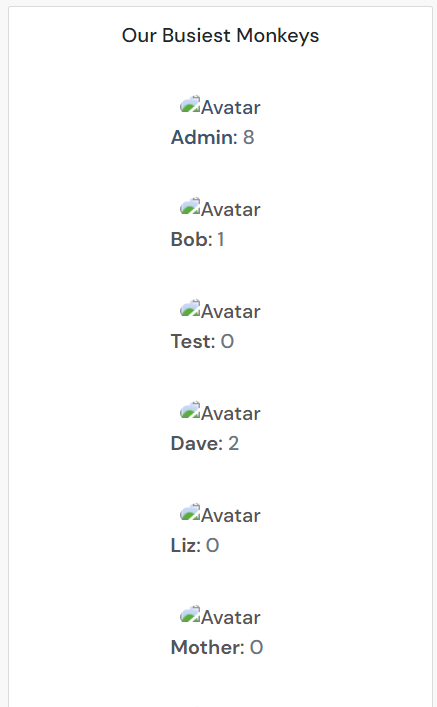
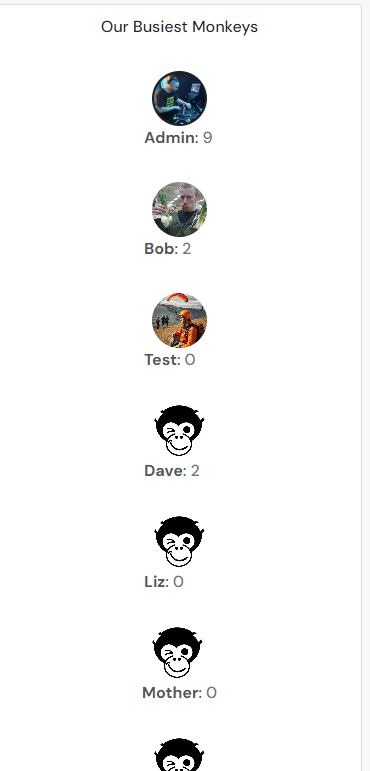
update images in documentation and update readme

diff --git a/README.md b/README.md
@@ -220,13 +220,6 @@ Key functionality Goals
 
 ## Design
 
-### Colours
-
-The colours used in the design were taken from [Color Palettes](https://colorpalettes.net/color-palette-4233/)
-
-![Color Palettes](documentation/assets/colorpalettes.png)
-
-
 ### Fonts
 
 The font chosen was [DM Sans](https://fonts.google.com/specimen/DM+Sans) from googlefonts
@@ -368,7 +361,6 @@ NavBar Mobile Expanded
 - This shows a list of the users that have added the highest amount of tasks when logged in, and the site logo when logged out
 
 ![Home Logged in](documentation/assets/homeloggedin.png)
-![Home Logged Out](documentation/assets/homeloggedout.png)
 
 
 
@@ -412,28 +404,31 @@ NavBar Mobile Expanded
 
 ![Change Password Page](documentation/assets/changepassword.png)
 
-### Unresolved Bugs
- - Edit profile - I encountered and issue when trying to edit the profile bio where the console showed an error regarding an unmounted component. I tried extensively to find a resolution, but even with help from tutor support, this was unable to be resolved before my submission deadline
-  ![Edit Profile Bug](documentation/assets/editprofilerrorfull_unresolved.png)
- - Avatar images not displaying - the avatar images are not displaying in the 'Active Profiles' section. Again, I was unable to find time to get this resolved in this iteration
- - Filters - I have been unable to get the pages to display the correct filtered information. I wanted a separate list of tasks to be displayed based on the status (not started, in progress, completed, on hold), but with my knowledge limited to what had been shown in the moments walkthrough, i was unable to translate that into a functioning solution in my app
+### Unresolved Bugs 
+
  - Logo image overlap on homepage on mobile devices
+
+### Fixed Bugs
+- Edit profile - I encountered and issue when trying to edit the profile bio where the console showed an error regarding an unmounted component. 
+  ![Edit Profile Bug](documentation/assets/editprofilerrorfull_unresolved.png)
+
+  This was fixed by researching extensively and realising that I had set the serializer field type incorrectly in the backend. Once the fields had been changed from ReadOnlyField to a suitable replacement, depending on the field type required, all worked as intended
+
+ - Avatar images not displaying - the avatar images are not displaying in the 'Active Profiles' section.
+ 
+ This was fixed by updating the information that was being called from the API in the AxiosReq
+
+ - Filters - I have been unable to get the pages to display the correct filtered information. I wanted a separate list of tasks to be displayed based on the status (not started, in progress, completed, on hold), but with my knowledge limited to what had been shown in the moments walkthrough, i was unable to translate that into a functioning solution in my app.
+
+ This was fixed by adding in several more links on the NavBar, and adjusting the routing to allow the page to display the correct information. I have now added a separate navbar link to a page for each of the available Task status options
 
 ### Future Enhancements
 
-- Filter tasks by priority, due date, status
 - upload attachments to keep documents relevant to the task together with the task information
 - Create Teams & Projects for collaborative tasks
 - Edit list view to show a summary which expands to shows detailed view
 - Add a tickbox to mark tasks as complete
 - Reinstate Search Box
-
-##### Search form and filters
-
-- This component has a search bar for user to type and search 
-- This component is provided for user to search all tasks easily by their title, date, status and priority.
-
-Unfortuntely, at a very late stage in production, the search bar was accidently removed without me noticing. This will be re-instated in a later iteration.
 
 ## Validation
 
@@ -494,7 +489,7 @@ Profile Mobile after amendments
 
 ## Testing
 
-Please see [Testing](ddd) for detailed description of all testing undertaken during this build
+Please see [Testing](/TESTING.md) for detailed description of all testing undertaken during this build
  
 ## Deployment
 
